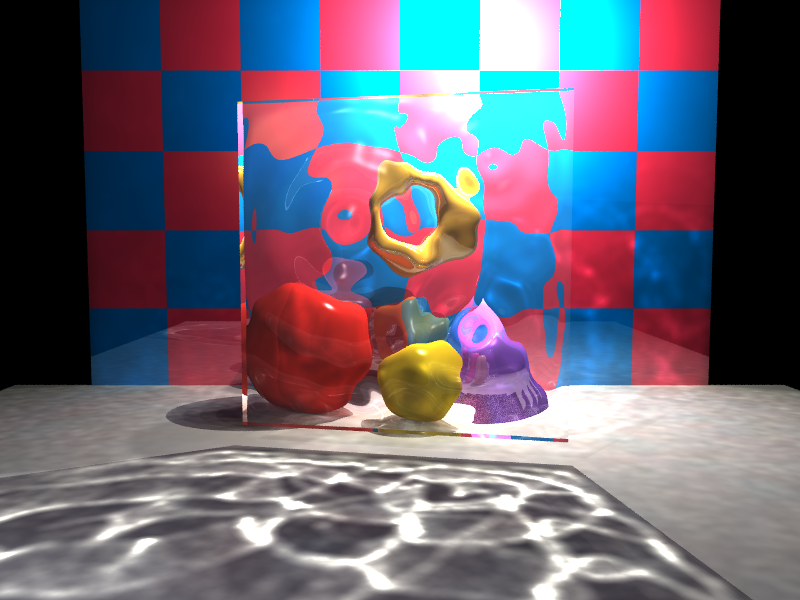
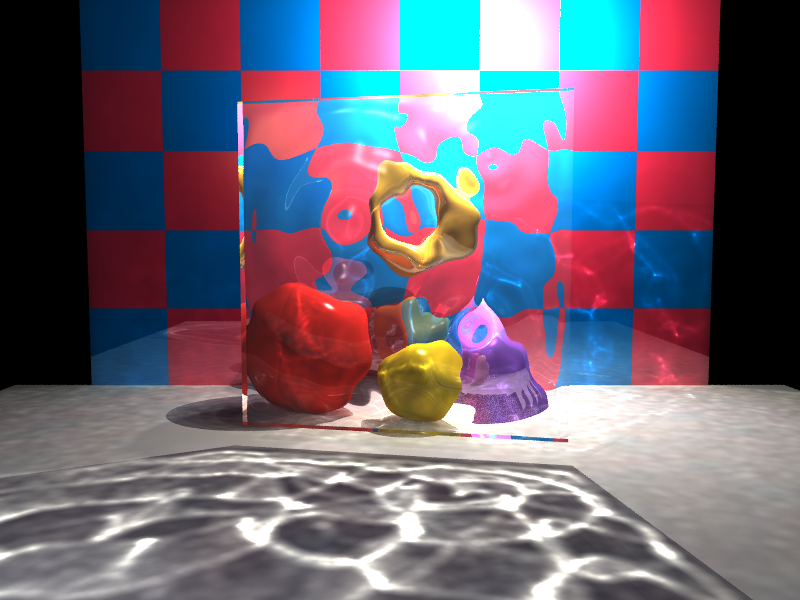
Aim caustic photons at glass and mirrors with projection maps
Each light gets a projection map of equal-area direction cells whose
first hit is specular. A separate pass emits caustic_photons per light
into those cells, scaled by their coverage, and supplies the caustic map;
the main photons then fill only the direct and indirect maps. A test
checks the caustic power matches with and without targeting.

diff --git a/crates/raytrace/src/photon.rs b/crates/raytrace/src/photon.rs
@@ -202,6 +202,86 @@ enum Kind {
     Caustic,
 }
 
+/// Which photons a tracing pass keeps.
+#[derive(Clone, Copy, PartialEq, Eq, Debug)]
+enum Pass {
+    /// Every photon.
+    All,
+    /// Direct and indirect only; a separate pass supplies the caustics.
+    Global,
+    /// Caustic paths only, from photons aimed at specular objects.
+    Caustic,
+}
+
+/// Cells of a projection map: equal-area bands of cos θ by slices of φ.
+const PROJECTION_ROWS: usize = 256;
+const PROJECTION_COLS: usize = 512;
+/// Rays per cell side when deciding whether a cell sees a specular object.
+const PROJECTION_SAMPLES: usize = 2;
+
+/// The directions from a light that reach glass or mirrors first, as a set of
+/// equal-area cells (Jensen's projection map). Caustic photons are emitted
+/// only into these, so they aren't wasted on diffuse surfaces.
+struct ProjectionMap {
+    cells: Vec<u32>,
+}
+
+impl ProjectionMap {
+    fn new(world: &World, light: DVec3) -> Self {
+        let specular: Vec<bool> = (0..PROJECTION_ROWS * PROJECTION_COLS)
+            .into_par_iter()
+            .map(|cell| {
+                (0..PROJECTION_SAMPLES * PROJECTION_SAMPLES).any(|k| {
+                    let u = (k % PROJECTION_SAMPLES) as f64 + 0.5;
+                    let v = (k / PROJECTION_SAMPLES) as f64 + 0.5;
+                    let dir = cell_direction(cell, u / PROJECTION_SAMPLES as f64, v / PROJECTION_SAMPLES as f64);
+                    world.intersect(&Ray::new(light, dir), f64::INFINITY).is_some_and(|h| {
+                        let m = &world.materials[h.material];
+                        m.reflectivity + m.transmissivity > 0.0
+                    })
+                })
+            })
+            .collect();
+        // Widen by a cell so objects narrower than the sampling still count.
+        let cells = (0..PROJECTION_ROWS * PROJECTION_COLS)
+            .filter(|&cell| {
+                let (row, col) = ((cell / PROJECTION_COLS) as isize, (cell % PROJECTION_COLS) as isize);
+                (-1..=1).any(|dr| {
+                    let r = row + dr;
+                    (0..PROJECTION_ROWS as isize).contains(&r)
+                        && (-1..=1).any(|dc| {
+                            let c = (col + dc).rem_euclid(PROJECTION_COLS as isize);
+                            specular[r as usize * PROJECTION_COLS + c as usize]
+                        })
+                })
+            })
+            .map(|cell| cell as u32)
+            .collect();
+        Self { cells }
+    }
+
+    /// Fraction of all directions the marked cells cover.
+    fn coverage(&self) -> f64 {
+        self.cells.len() as f64 / (PROJECTION_ROWS * PROJECTION_COLS) as f64
+    }
+
+    /// A uniformly distributed direction within the marked cells.
+    fn sample(&self, rng: &mut Rng) -> DVec3 {
+        let cell = self.cells[rng.below(self.cells.len())] as usize;
+        cell_direction(cell, rng.next_f64(), rng.next_f64())
+    }
+}
+
+/// The direction at (u, v) within a projection map cell. Rows are uniform in
+/// cos θ, so every cell covers the same solid angle.
+fn cell_direction(cell: usize, u: f64, v: f64) -> DVec3 {
+    let (row, col) = (cell / PROJECTION_COLS, cell % PROJECTION_COLS);
+    let z = 1.0 - 2.0 * (row as f64 + u) / PROJECTION_ROWS as f64;
+    let phi = std::f64::consts::TAU * (col as f64 + v) / PROJECTION_COLS as f64;
+    let r = (1.0 - z * z).max(0.0).sqrt();
+    DVec3::new(r * phi.cos(), r * phi.sin(), z)
+}
+
 #[derive(Default)]
 struct Buckets {
     direct: Vec<Photon>,
@@ -248,22 +328,47 @@ pub struct PhotonMaps {
 
 impl PhotonMaps {
     /// Emits `photons_per_light` photons uniformly from each light. A light
-    /// emits `light_power` times its diffuse color in total.
+    /// emits `light_power` times its diffuse color in total. With
+    /// `caustic_photons`, a second pass aims that many more per light at
+    /// glass and mirrors through projection maps and supplies the caustic map.
     pub fn build(world: &World, settings: &PhotonSettings, seed: u64) -> Self {
+        let targeted = settings.caustic_photons > 0;
         let per_light = settings.photons_per_light.max(1) as usize;
         let total = per_light * world.lights.len();
+        let global_pass = if targeted { Pass::Global } else { Pass::All };
 
-        let buckets = (0..total)
+        let mut buckets = (0..total)
             .into_par_iter()
             .fold(Buckets::default, |mut out, i| {
                 let light = &world.lights[i / per_light];
                 let power = light.diffuse * (settings.light_power / per_light as f64);
                 let mut rng = Rng::new(seed.wrapping_mul(0x1000_0000_01B3) ^ i as u64);
                 let ray = Ray::new(light.position, rng.unit_vector());
-                trace_photon(world, settings, ray, power, &mut rng, &mut out);
+                trace_photon(world, settings, global_pass, ray, power, &mut rng, &mut out);
                 out
             })
             .reduce(Buckets::default, Buckets::merge);
+
+        if targeted {
+            let per_light = settings.caustic_photons as usize;
+            let maps: Vec<ProjectionMap> = world.lights.iter().map(|l| ProjectionMap::new(world, l.position)).collect();
+            let caustics = (0..per_light * world.lights.len())
+                .into_par_iter()
+                .fold(Buckets::default, |mut out, i| {
+                    let (light, map) = (&world.lights[i / per_light], &maps[i / per_light]);
+                    if map.cells.is_empty() {
+                        return out;
+                    }
+                    // Only the covered share of the light's power goes this way.
+                    let power = light.diffuse * (settings.light_power * map.coverage() / per_light as f64);
+                    let mut rng = Rng::new(seed.wrapping_mul(0x9E37_79B9_7F4A_7C15) ^ i as u64);
+                    let ray = Ray::new(light.position, map.sample(&mut rng));
+                    trace_photon(world, settings, Pass::Caustic, ray, power, &mut rng, &mut out);
+                    out
+                })
+                .reduce(Buckets::default, Buckets::merge);
+            buckets.caustic = caustics.caustic;
+        }
 
         Self {
             direct: KdTree::build(buckets.direct),
@@ -371,6 +476,7 @@ fn estimate(map: &KdTree, point: DVec3, normal: DVec3, side: Option<DVec3>, radi
 fn trace_photon(
     world: &World,
     settings: &PhotonSettings,
+    pass: Pass,
     mut ray: Ray,
     mut power: DVec3,
     rng: &mut Rng,
@@ -392,10 +498,11 @@ fn trace_photon(
         let diffuse_part = (1.0 - m.reflectivity - m.transmissivity).max(0.0);
         if diffuse_part > 0.0 {
             let photon = Photon { pos: hit.point, power, normal: facing.as_vec3(), axis: 0 };
-            match kind {
-                Kind::Direct => out.direct.push(photon),
-                Kind::Indirect => out.indirect.push(photon),
-                Kind::Caustic => out.caustic.push(photon),
+            match (kind, pass) {
+                (Kind::Direct, Pass::All | Pass::Global) => out.direct.push(photon),
+                (Kind::Indirect, Pass::All | Pass::Global) => out.indirect.push(photon),
+                (Kind::Caustic, Pass::All | Pass::Caustic) => out.caustic.push(photon),
+                _ => {}
             }
         }
 
@@ -403,6 +510,10 @@ fn trace_photon(
         let p_diffuse = diffuse.element_sum() / 3.0;
         let xi = rng.next_f64();
         if xi < p_diffuse {
+            if pass == Pass::Caustic {
+                // Past a diffuse bounce the path is no longer a caustic.
+                return;
+            }
             power *= diffuse / p_diffuse;
             ray = Ray::new(hit.point, cosine_direction(facing, rng));
             kind = Kind::Indirect;
@@ -486,6 +597,30 @@ mod tests {
         let got = mean_estimate(&maps.direct);
         assert!((got / expected - 1.0).abs() < 0.03, "direct {got} vs {expected}");
         assert!(maps.indirect.is_empty(), "black walls absorb everything");
+    }
+
+    /// A clear glass ball beside the light: every photon that reaches it ends
+    /// as a caustic on the black walls, so the caustic map's total power is the
+    /// light's power times the share of directions the ball covers, whether
+    /// caustics come from the main photons or a targeted pass.
+    #[test]
+    fn targeted_caustics_carry_the_same_power() {
+        let (mut world, settings) = light_in_sphere(0.0);
+        world.materials.push(Material { transmissivity: 1.0, reflectivity: 0.0, ..Material::default() });
+        let (distance, radius) = (2.0, 0.8);
+        world.spheres.push(Sphere { center: DVec3::new(distance, 0.0, 0.0), radius, material: 1 });
+        let cos_half_angle = (1.0 - (radius / distance).powi(2)).sqrt();
+        let expected = LIGHT_POWER * (1.0 - cos_half_angle) / 2.0;
+        let total = |maps: &PhotonMaps| maps.caustic.photons().iter().map(|p| p.power.x).sum::<f64>();
+
+        let untargeted = PhotonMaps::build(&world, &PhotonSettings { caustic_photons: 0, ..settings.clone() }, 1);
+        let targeted = PhotonMaps::build(&world, &PhotonSettings { caustic_photons: 50_000, ..settings }, 1);
+        for (name, maps) in [("untargeted", &untargeted), ("targeted", &targeted)] {
+            let got = total(maps);
+            assert!((got / expected - 1.0).abs() < 0.03, "{name} caustic power {got} vs {expected}");
+        }
+        // The targeted pass spends its photons on the ball, not the walls.
+        assert!(targeted.caustic.len() > 4 * untargeted.caustic.len());
     }
 
     /// Inside a closed diffuse sphere every bounce spreads evenly, so the

diff --git a/crates/raytrace/src/scene.rs b/crates/raytrace/src/scene.rs
@@ -229,6 +229,9 @@ pub struct PhotonSettings {
     /// Power each light emits, times its diffuse color. Direct light falls
     /// off as power / (4π d²).
     pub light_power: f64,
+    /// Extra photons per light aimed only at glass and mirrors, which supply
+    /// the caustic map. 0 takes caustics from the main photons instead.
+    pub caustic_photons: u32,
     pub direct_lighting: DirectLighting,
     /// Maximum search radius of each map's estimate.
     pub radius: PhotonTriple,
@@ -254,6 +257,7 @@ impl Default for PhotonSettings {
             photons_per_light: 100_000,
             max_depth: 5,
             light_power: 1000.0,
+            caustic_photons: 100_000,
             direct_lighting: DirectLighting::default(),
             radius: PhotonTriple { direct: 1.0, indirect: 1.0, caustic: 1.0 },
             exposure: PhotonTriple { direct: 1.0, indirect: 1.0, caustic: 1.0 },
@@ -272,6 +276,7 @@ impl PhotonSettings {
         self.photons_per_light == other.photons_per_light
             && self.max_depth == other.max_depth
             && self.light_power == other.light_power
+            && self.caustic_photons == other.caustic_photons
     }
 }
 

diff --git a/crates/raytrace-cli/src/main.rs b/crates/raytrace-cli/src/main.rs
@@ -36,6 +36,10 @@ enum Command {
         /// Photons emitted per light (implies --photons).
         #[arg(long)]
         photon_count: Option<u32>,
+        /// Extra photons per light aimed at glass and mirrors for the caustic
+        /// map; 0 takes caustics from the main photons.
+        #[arg(long)]
+        caustic_photons: Option<u32>,
         /// Take direct light from the photon map instead of shadow rays, as
         /// the 2011 version did.
         #[arg(long)]
@@ -82,6 +86,7 @@ fn main() -> Result<()> {
             samples,
             photons,
             photon_count,
+            caustic_photons,
             direct_map,
             final_gather,
             no_irradiance_cache,
@@ -107,6 +112,9 @@ fn main() -> Result<()> {
             let p = &mut scene.file.photon;
             if let Some(n) = photon_count {
                 p.photons_per_light = n;
+            }
+            if let Some(n) = caustic_photons {
+                p.caustic_photons = n;
             }
             p.enabled |= photons || photon_count.is_some();
             if direct_map {

diff --git a/crates/raytrace-viewer/src/main.rs b/crates/raytrace-viewer/src/main.rs
@@ -287,6 +287,10 @@ impl Viewer {
                     ui.label("Bounces");
                     ui.add(DragValue::new(&mut p.max_depth).range(0..=16));
                     ui.end_row();
+                    ui.label("Caustic photons / light")
+                        .on_hover_text("Aimed only at glass and mirrors; 0 takes caustics from the main photons");
+                    ui.add(DragValue::new(&mut p.caustic_photons).range(0..=10_000_000).speed(1000));
+                    ui.end_row();
                     ui.label("Light power");
                     ui.add(DragValue::new(&mut p.light_power).range(0.0..=1e6).speed(10.0));
                     ui.end_row();

diff --git a/README.md b/README.md
@@ -14,7 +14,8 @@ A ray tracer with photon mapping, written in Rust. It is a port of a
   gathering over precomputed irradiance with an irradiance cache (kd-tree,
   k-nearest density estimates over a flattened disc). Photons carry physical
   power and follow one path each by Russian roulette on the material's
-  reflectances. The 2011 direct-map shading is still available.
+  reflectances. Caustic photons are aimed at glass and mirrors through
+  projection maps. The 2011 direct-map shading is still available.
 - Triangle meshes from Wavefront OBJ/MTL, accelerated by a binned-SAH BVH, plus
   analytic spheres
 - N-rooks anti-aliasing; all cores via rayon; deterministic output
@@ -128,6 +129,7 @@ refractions = true
 enabled = false
 photons_per_light = 100000
 light_power = 1000.0       # per light, times its diffuse color
+caustic_photons = 100000   # per light, aimed at glass and mirrors; 0 = use the main photons
 direct_lighting = "rays"   # or "map": read the direct photon map, as in 2011
 radius = { direct = 1.0, indirect = 1.0, caustic = 1.0 }   # max search radius
 gather = { direct = 200, indirect = 200, caustic = 80 }    # nearest photons; 0 = all in radius
@@ -145,6 +147,14 @@ Russian roulette picks a diffuse bounce, mirror reflection, refraction or
 absorption in proportion to the material's reflectances. Closed rooms with
 light walls get much more bounce light than open scenes, as they should.
 `exposure` scales each map's contribution on top.
+
+Caustics come from a separate batch of `caustic_photons` per light. Each light
+gets a projection map: the sphere of directions around it, split into
+equal-area cells, with the cells whose first hit is glass or a mirror marked.
+Caustic photons are emitted only into those cells, carrying the share of the
+light's power the cells cover, so nearly all of them end up in caustics
+instead of a few percent. The main photons then supply only the direct and
+indirect maps.
 
 Each map's estimate uses the `gather` nearest photons, out to `radius` at
 most, so it sharpens where photons are dense (caustics) and widens where they
